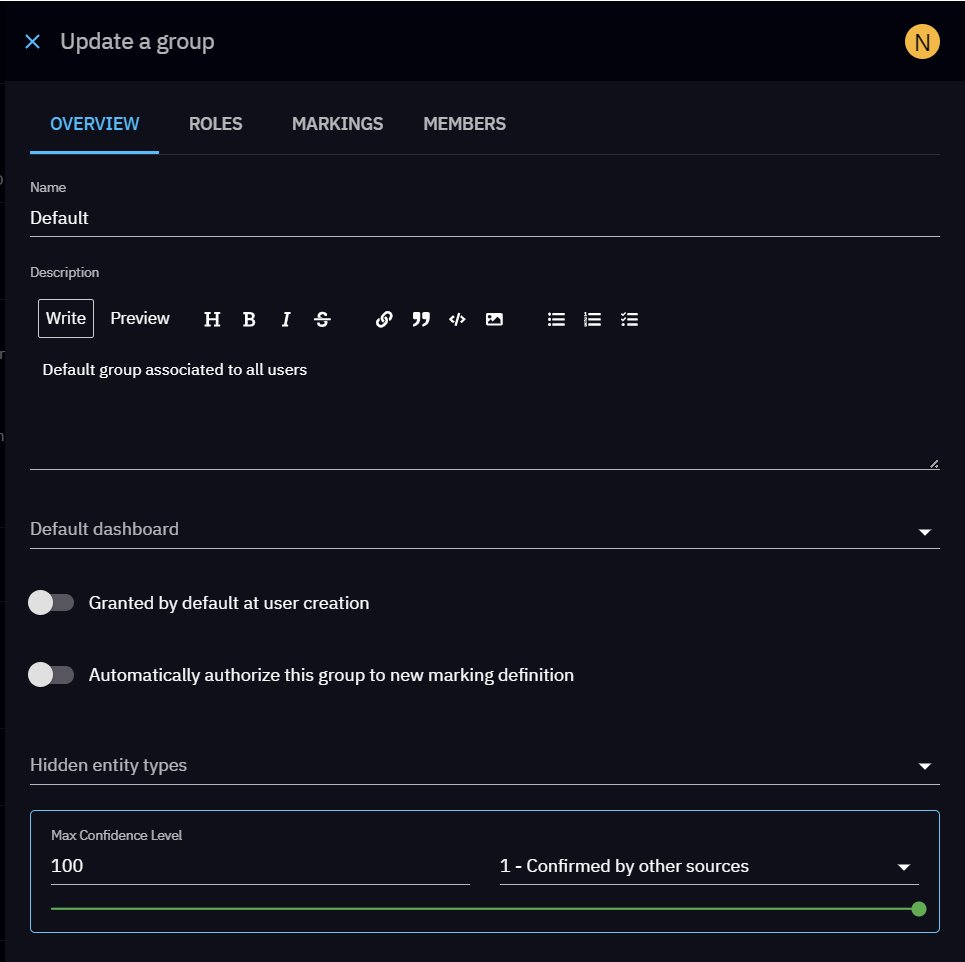
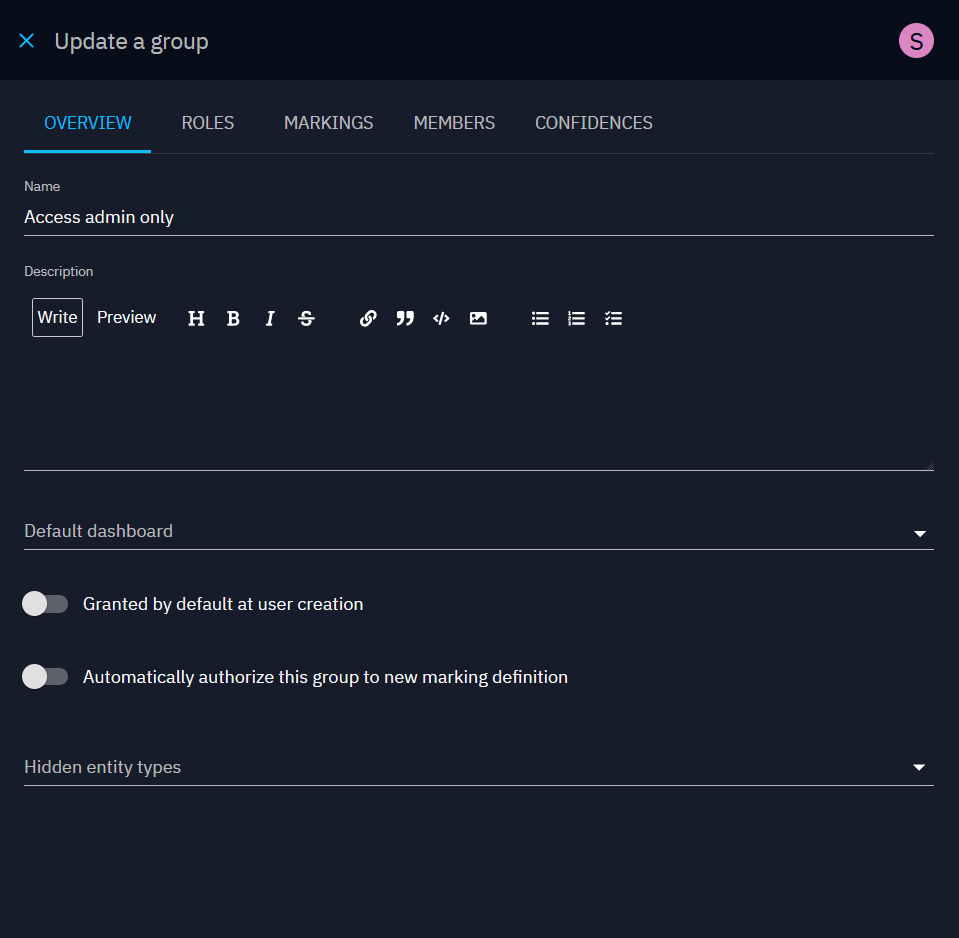
[docs] update confidence screenshot

diff --git a/docs/usage/reliability-confidence.md b/docs/usage/reliability-confidence.md
@@ -126,6 +126,15 @@ To have a detailed understanding of the concept, please browse through this diag
 
 To see how to set up the confidence level, please go in this [page](../administration/users.md).
 
+You can set up a max confidence level to your user or group in the Confidences tab of this one. The max confidence level of a group will always be override by one set on user directly. However, if your user doesn't have a max confidence level set up, he will inherit the one from his groups.
+
+![Update Confidence Level](assets/update-confidence-level.png)
+
+Here's an example of the inheritance of the max confidence level by groups
+![Override Confidence Tooltip](assets/override-confidence-tooltip.png)
+
+![Override Max Confidence Level Per Entity](assets/group-confidence-overrides.png)
+
 ## Usage in OpenCTI
 
 ### Example with the admiralty code template
